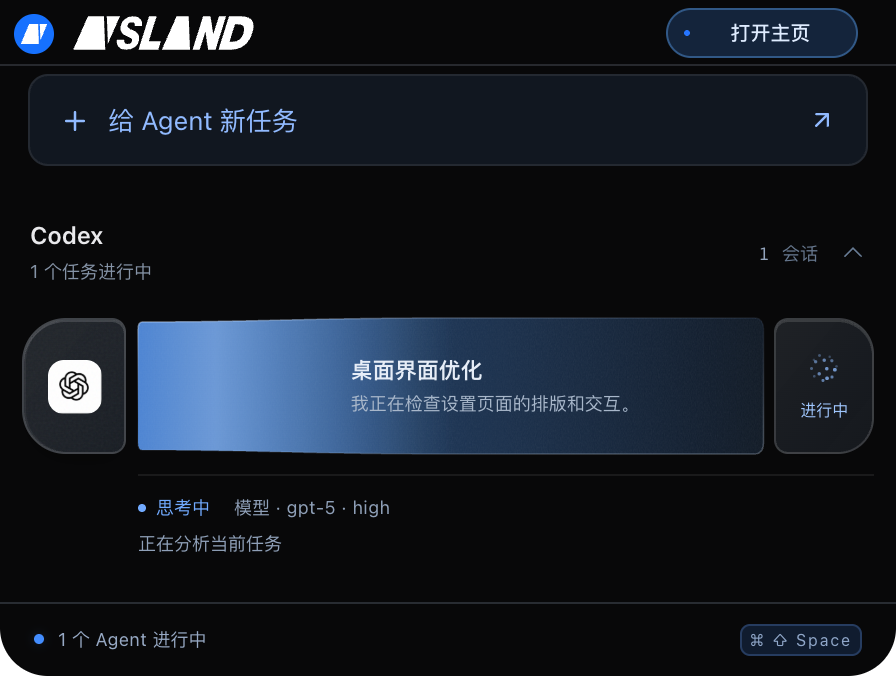
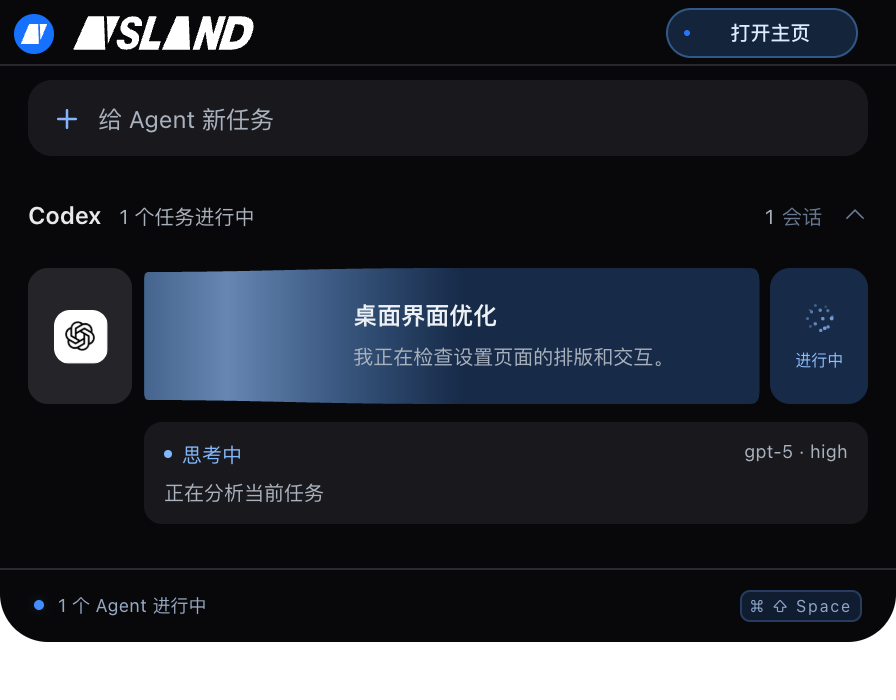
Publish refined island surfaces while preserving existing flow animation

diff --git a/public/docs/index.html b/public/docs/index.html
@@ -1,7 +1,7 @@
-<!doctype html><html lang="zh-CN"><head><meta charset="utf-8"><meta name="viewport" content="width=device-width,initial-scale=1"><title>使用文档 — AISLAND</title><meta name="description" content="AISLAND 的安装、快速体验、Node.js 与 Python 接入、审批安全和本地数据说明。"><meta name="theme-color" content="#ffffff"><link rel="canonical" href="https://calibg.github.io/agent-island/docs/"><link rel="icon" href="../assets/icon.svg?v=ai-parallel-4" type="image/svg+xml"><link rel="stylesheet" href="../marketing.css"><link rel="stylesheet" href="../docs.css"><script src="../site.js" defer></script></head><body class="landing">
-<a class="skip-link" href="#main">跳到文档内容</a><header class="header"><div class="container header-inner"><a class="brand" href="../"><img src="../assets/wordmark.svg?v=ai-parallel-4" width="150" height="28" alt="AISLAND"></a><nav class="nav" id="navigation" aria-label="主导航"><a href="../#product">产品体验</a><a href="../#connect">通用接入</a><a href="./" aria-current="page">使用文档</a></nav><a class="nav-download" href="../#download">下载体验 <span aria-hidden="true">↗</span></a><button class="menu-toggle" aria-expanded="false" aria-controls="navigation" aria-label="展开导航"><span></span><span></span></button></div></header>
+<!doctype html><html lang="zh-CN"><head><meta charset="utf-8"><meta name="viewport" content="width=device-width,initial-scale=1"><title>使用文档 — AISLAND</title><meta name="description" content="AISLAND 的安装、快速体验、Node.js 与 Python 接入、审批安全和本地数据说明。"><meta name="theme-color" content="#ffffff"><link rel="canonical" href="https://calibg.github.io/agent-island/docs/"><link rel="icon" href="../assets/icon.svg?v=ui-flat-24" type="image/svg+xml"><link rel="stylesheet" href="../marketing.css"><link rel="stylesheet" href="../docs.css"><script src="../site.js" defer></script></head><body class="landing">
+<a class="skip-link" href="#main">跳到文档内容</a><header class="header"><div class="container header-inner"><a class="brand" href="../"><img src="../assets/wordmark.svg?v=ui-flat-24" width="150" height="28" alt="AISLAND"></a><nav class="nav" id="navigation" aria-label="主导航"><a href="../#product">产品体验</a><a href="../#connect">通用接入</a><a href="./" aria-current="page">使用文档</a></nav><a class="nav-download" href="../#download">下载体验 <span aria-hidden="true">↗</span></a><button class="menu-toggle" aria-expanded="false" aria-controls="navigation" aria-label="展开导航"><span></span><span></span></button></div></header>
 <div class="container docs-layout"><aside class="docs-sidebar" aria-label="文档目录"><p class="eyebrow">GETTING STARTED</p><a href="#install">安装与打开</a><a href="#first-use">第一次体验</a><a href="#desktop-agents">桌面 Agent 与启动设置</a><a href="#quickstart">接入你的 Agent</a><a href="#approvals">审批与问答</a><a href="#capabilities">当前支持范围</a><a href="#privacy">数据与隐私</a><a href="#troubleshooting">常见问题</a><a href="./protocol.md">完整 HTTP 协议 ↗</a></aside>
-<main class="docs-content" id="main"><p class="eyebrow">AISLAND / DOCUMENTATION</p><h1>从这里，开始登岛。</h1><p class="docs-lead">安装应用，体验小岛，再把你自己的 Agent 接进来。<br>适用于 v0.3.23 预览版。</p>
+<main class="docs-content" id="main"><p class="eyebrow">AISLAND / DOCUMENTATION</p><h1>从这里，开始登岛。</h1><p class="docs-lead">安装应用，体验小岛，再把你自己的 Agent 接进来。<br>适用于 v0.3.24 预览版。</p>
 <section id="install"><h2>安装与打开</h2><p>应用本身不需要 Node.js 或 Python。Claude Code、Codex、WorkBuddy、Antigravity 的 Hooks 需要 Python 3.9+；对应 SDK 需要 Node.js 20+ 或 Python 3.9+。</p><h3>macOS · Apple Silicon</h3><ol><li>从<a href="../#download">下载页面</a>获取 DMG，打开后将 AISLAND 拖入 Applications（应用程序）。</li><li>从应用程序中启动 AISLAND。</li><li>当前提供 M 系列芯片版本，尚未提供 Intel 安装包。</li></ol><p>桌面界面跟随系统明暗模式。macOS 开关使用 AppKit NSSwitch；Windows 设置使用微软官方 Fluent UI React 组件，并保留系统窗口按钮。</p><h3>Windows · x64</h3><ol><li>下载 EXE 安装程序，按提示安装并打开。</li></ol><div class="doc-note"><p>当前是未签名的预览版，尚未完成 Apple Developer ID 公证或 Windows Authenticode 签名。首次打开可能出现系统来源提示，请先确认下载地址和<a href="../download-checksums.txt">文件校验信息</a>。Mac 已完成自动化验证，Windows 安装包已构建，尚待实机验证。</p></div><p>应用常驻菜单栏或系统托盘。关闭管理窗口不会退出应用；如需完全退出，请使用托盘菜单中的「退出」。</p></section>
 <section class="doc-section" id="first-use"><h2>接入 Claude Code</h2><ol><li>启动 AISLAND，打开「工具接入」，点击 Claude Code 的「安装接入」。这一步需要 Python 3.9+。</li><li>在项目终端运行 <code>claude</code>。已启动的会话可重启一次或用 <code>/hooks</code> 检查配置。</li><li>提交真实任务后，小岛显示运行状态；权限确认和问题回答会返回当前 Claude Code 会话。</li></ol><p>保留你已有的 Hooks、模型和权限配置。只有明确确认才允许操作；小岛不在线或请求超时，回到 Claude Code 原有交互。计划确认仍在终端处理。</p><p>快捷键：macOS 为 Cmd + Shift + Space，Windows 为 Ctrl + Shift + Space。</p></section>
 <section id="desktop-agents"><h2>Codex、Antigravity 与接入助手</h2><p>在应用「工具接入」中打开接入助手。先检查 Python 3.9+ 和 Codex，再安装接入配置。助手保留已有配置并备份，不会更改权限策略。</p><h3>Codex 桌面软件</h3><ol><li>点击「安装 Codex 接入」，等待写入完成。</li><li>点击「打开审核终端」，在 Codex 中输入 <code>/hooks</code>，审核并信任「AISLAND · Codex」条目。审核不会自动进行。</li><li>回到小岛点击「重新检查」。显示已启用并信任后，重启 Codex 桌面端并开启新任务。</li></ol><p>支持真实进度、工具调用、权限确认、结束与中断。问答和计划仍在 Codex 中完成。用户级 Hooks 也会被同一配置下的 CLI 加载；小岛跳转唤起桌面软件，不定位具体聊天。</p><h3>Antigravity</h3><p>在对应接入卡片点击安装，重启 Antigravity 并开启新任务。支持进度、工具调用与后台任务状态。权限和问答在 Antigravity 内处理。</p><h3>登录后自动运行</h3><p>「登录后自动启动小岛」与「启动时运行接入检查」是独立开关，默认关闭。前者运行本机服务；后者只读检查环境与 Hooks 状态，发现未完成步骤时显示助手，不自动批准 Hooks。</p><p>应用先放入应用程序目录或通过 Windows 安装程序安装。系统要求批准登录项时，请在系统设置中完成；未签名 macOS 预览包的登录启动可能受系统限制。界面显示系统实际状态，不能等同于已经实测重启。</p><p>「已配置」不代表已经连接。收到真实 Hook 后才显示事件回执。安装脚本与配置不上传网站。</p></section><section class="doc-section" id="quickstart"><h2>接入你的 Agent</h2><p>先启动 AISLAND，再把 SDK 文件复制到你自己的项目。SDK 会读取当前用户目录下的本机连接信息，向应用报告状态。无需第三方依赖，也不需要填写 AI 服务密钥。</p><div class="doc-downloads"><a class="button" href="../sdk/agent-island.mjs" download>下载 Node.js SDK ↓</a><a class="button" href="../sdk/agent_island.py" download>下载 Python SDK ↓</a><a class="button" href="../sdk/example.mjs" download>下载完整 Node.js 示例 ↓</a></div><h3>Node.js</h3><p>将以下代码保存为 <code>connect.mjs</code>，与 <code>agent-island.mjs</code> 放在同一个目录，然后运行 <code>node connect.mjs</code>。</p><pre><code>import { AgentIsland } from './agent-island.mjs';
@@ -33,10 +33,10 @@ if (result.decision === 'allow') {
 } else {
   await island.complete('操作未获批准。');
 }</code></pre><p>审批最多等待约 10 分钟。超时、断线、会话结束、应用退出或重启，都不会自动批准。接入方必须把错误与 <code>cancel</code> 视为未批准，不应在捕获异常后继续执行待确认操作。</p><p>Node.js SDK 还提供 <code>ask()</code>（单选、多选、自定义回答）、<code>plan()</code>（计划与反馈）和 <code>usage()</code>（真实上报的用量）。可下载完整示例体验双向交互。Python 可用 <code>send()</code> 发送协议定义的其他事件。</p></section>
-<section class="doc-section" id="capabilities"><h2>当前支持范围</h2><div class="table-scroll"><table><thead><tr><th>功能</th><th>v0.3.23 状态</th></tr></thead><tbody><tr><td>桌面小岛、悬停、快捷键、多显示器</td><td>已提供</td></tr><tr><td>Mac 原生刘海定位与 Force Touch 进入反馈</td><td>已提供；触感需支持的触控板</td></tr><tr><td>事件提示音、音量、安静时段、减少动态效果</td><td>已提供</td></tr><tr><td>会话搜索、筛选、活动记录、归档</td><td>已提供</td></tr><tr><td>审批、问答、计划审阅、用量上报</td><td>已提供</td></tr><tr><td>Node.js / Python / HTTP 通用接入</td><td>已提供</td></tr><tr><td>Claude Code Hooks</td><td>状态、权限确认与问答已提供；计划确认在终端</td></tr><tr><td>Codex / Antigravity</td><td>真实 Hooks 接入；具体能力与首次信任见上文</td></tr><tr><td>接入助手与启动检查</td><td>环境检查、官方信任状态、用户自行选择登录启动</td></tr><tr><td>厂商账户额度自动采集、SSH、手机推送、自动更新</td><td>未提供</td></tr></tbody></table></div><p>应用采用 Electron + React 与 macOS 原生面板模块。Mac 读取刘海安全区并从下沿展开；Windows 从屏幕顶部中央展开，外接屏无需物理刘海。AISLAND 为独立实现，不是 Vibe Island 的官方版本。</p></section>
+<section class="doc-section" id="capabilities"><h2>当前支持范围</h2><div class="table-scroll"><table><thead><tr><th>功能</th><th>v0.3.24 状态</th></tr></thead><tbody><tr><td>桌面小岛、悬停、快捷键、多显示器</td><td>已提供</td></tr><tr><td>Mac 原生刘海定位与 Force Touch 进入反馈</td><td>已提供；触感需支持的触控板</td></tr><tr><td>事件提示音、音量、安静时段、减少动态效果</td><td>已提供</td></tr><tr><td>会话搜索、筛选、活动记录、归档</td><td>已提供</td></tr><tr><td>审批、问答、计划审阅、用量上报</td><td>已提供</td></tr><tr><td>Node.js / Python / HTTP 通用接入</td><td>已提供</td></tr><tr><td>Claude Code Hooks</td><td>状态、权限确认与问答已提供；计划确认在终端</td></tr><tr><td>Codex / Antigravity</td><td>真实 Hooks 接入；具体能力与首次信任见上文</td></tr><tr><td>接入助手与启动检查</td><td>环境检查、官方信任状态、用户自行选择登录启动</td></tr><tr><td>厂商账户额度自动采集、SSH、手机推送、自动更新</td><td>未提供</td></tr></tbody></table></div><p>应用采用 Electron + React 与 macOS 原生面板模块。Mac 读取刘海安全区并从下沿展开；Windows 从屏幕顶部中央展开，外接屏无需物理刘海。AISLAND 为独立实现，不是 Vibe Island 的官方版本。</p></section>
 <section class="doc-section" id="privacy"><h2>数据与隐私</h2><p>桌面应用的桥接服务只监听 <code>127.0.0.1</code>，不向局域网开放。请求需通过本机令牌验证，并拒绝携带浏览器 Origin 的请求。不要公开或分享 <code>connection.json</code>。</p><p>会话文本与操作预览保存在 <code>~/.agent-island/state.json</code>。记录默认保留 7 天，下次启动时清理过期记录。在偏好设置中可打开数据目录。</p><p>AISLAND 默认只在本机运行，不设置遥测。主动启用手机连接后，进度摘要和手机指令在设备上用 AES-256-GCM 加密，再经过你配置的 Cloudflare Workers / D1 同步；服务端不持有解密密钥。电脑超过 24 小时不再同步时，服务会清理旧连接。手机配对信息保存在设备本地，配对链接相当于访问凭据，不要分享。你所接入的 AI 工具可能有自己的网络行为与数据策略，请以对应工具的设置为准。</p><p>本官网不嵌入分析追踪器，也不设置账户系统。网页由 GitHub Pages 托管，安装包通过 GitHub Releases 分发；访问与下载产生的基础服务日志由 GitHub 按其<a href="https://docs.github.com/en/site-policy/privacy-policies/github-general-privacy-statement">隐私声明</a>处理。</p></section>
 <section class="doc-section" id="mobile"><h2>手机同步与控制</h2><p>自部署用户可下载<a href="https://github.com/CaliBG/agent-island/releases/download/v0.3.0/Agent-Island-Sync-0.1.0.zip">免费同步服务部署包</a>，按其中 README 设置 Workers 和 D1。</p><ol><li>在电脑打开「设置 → 手机与远程」，配置你自己的 Cloudflare Workers 免费同步服务，然后生成配对码。已配置服务的电脑可直接生成二维码。</li><li>手机打开<a href="../mobile/">移动端</a>，扫码或粘贴配对链接。二维码仅用于配对，有效期 10 分钟。</li><li>iPhone 可通过 Safari「分享 → 添加到主屏幕」免费使用。Android 可从官网下载 APK 安装；原生预览版尚待真机验证。</li><li>按需在电脑分别允许「发送 Agent 任务」「调整保持唤醒」「打开远程控制软件」。三项默认关闭。</li></ol><p>前台约 5 秒刷新，手机进入后台后暂停轮询。电脑需运行 AISLAND 并联网；离线时只能查看最后同步的数据。发送后的“已排队”不等于执行成功，请以电脑返回的回执为准。保持唤醒不会解除手动锁屏，远程软件仍使用自身的登录和验证。</p><p>同步后端使用 Workers / D1 免费额度，超额时可能暂停，不会自动升级付费。AI 工具本身的订阅、额度以及第三方远程软件的收费由各厂商决定。iOS 原生工程已编译验证，尚未提供 App Store / TestFlight 安装。</p></section>
 <section class="doc-section" id="task-input"><h2>从小岛发送任务</h2><p>点击「给 Agent 新任务」，选择 Agent 和原对话；鼠标靠近分支右侧的状态按钮会自动弹出输入气泡；点击输入框后取得键盘焦点，已结束的会话也可正常输入。Codex、Claude Code 支持原会话续发，保留上下文；运行中可以排队发送，任务完成后自动续发，每个会话最多一条，可撤回编辑。应用重启或当前任务异常后，队列会暂停，需确认后重新提交。</p><p>Codex 使用官方 app-server 恢复同一个会话，桌面客户端可能需要重新打开对话才能显示新内容；Claude Code 使用官方 Agent SDK。两者沿用本机已有登录，不要求另外填写 API Key。需要审批时，在小岛逐次确认。</p></section>
 <section class="doc-section" id="workbuddy"><h2>接入 WorkBuddy</h2><ol><li>打开「设置 → Agent 接入 → WorkBuddy → 接入」。</li><li>在 WorkBuddy 审核新增 Hooks，再开启新会话；旧会话可能需要重启后加载配置。</li><li>开始真实任务后，设置页会显示「已收到事件」和时间；「已配置」只代表配置已写入。</li></ol><p>当前同步任务、工具调用、结束状态。v0.3.10 增加「填入原对话」：核对会话后通过系统辅助功能填入输入框，已有草稿不会覆盖，发送仍需在 WorkBuddy 确认。Mac 首次使用需允许辅助功能；适配 WorkBuddy 5.11.2，Mac 已由用户验证文字进入正确原对话框；Windows 实机仍待验收。Antigravity 和其他通用接入尚不支持可靠续发，输入框会明确提示。审批与问答仍在 WorkBuddy 完成。安装器会备份配置并保留其他 Hooks 和权限规则。</p></section><section class="doc-section" id="troubleshooting"><h2>常见问题</h2><h3>示例提示找不到 connection.json</h3><p>先打开 AISLAND，确认「工具接入」显示本地连接正常。SDK 和应用需要在同一台电脑、同一用户下运行。自定义数据路径时，可使用 <code>AGENT_ISLAND_HOME</code> 指向相应目录。</p><h3>小岛没有显示在预期位置</h3><p>使用快捷键唤起，或从托盘菜单打开管理窗口，检查偏好设置中的显示器与浮动方式。显示器断开后，应用会回退到可用屏幕。</p><h3>MacBook 没有感觉到震动</h3><p>在设置 → 外观与交互中开启「触控板触感」，将手指放在支持 Force Touch 的触控板上，点击「试一下」。每次进入只发送一次触感，默认清脆模式，可切换标准或轻触。系统公开接口不支持改变单次震动振幅。区域内移动不重复，移出再进入重新触发。声音开关与触感开关相互独立，普通鼠标本身不会震动。</p><h3>无法跳回终端</h3><p>macOS 首次定位 Terminal / iTerm2 会话可能需要系统自动化权限。Windows 在管理员窗口或某些全屏应用下可能拒绝切换焦点。若无法定位会话，可先从工具界面打开对应项目目录。</p><h3>发现其他问题</h3><p>请通过 <a href="https://github.com/CaliBG/agent-island/issues">GitHub Issues</a> 描述操作系统、应用版本与复现步骤。提交截图或日志前，请移除连接令牌、个人路径和项目敏感内容。</p></section>
-<div class="docs-footer">AISLAND v0.3.23 · <a href="../">返回官网</a> · <a href="https://github.com/CaliBG/agent-island/releases/tag/v0.3.23">查看发布记录</a></div></main></div>
+<div class="docs-footer">AISLAND v0.3.24 · <a href="../">返回官网</a> · <a href="https://github.com/CaliBG/agent-island/releases/tag/v0.3.24">查看发布记录</a></div></main></div>
 </body></html>

diff --git a/public/index.html b/public/index.html
@@ -5,24 +5,24 @@
 <title>AISLAND — 少一点切换，多一点专注。</title>
 <meta name="description" content="把 Claude Code、Codex、WorkBuddy 和 Antigravity 的工作进度带到屏幕顶部。真实事件、本地运行、按需回应。下载适用于 macOS 和 Windows 的 AISLAND。">
 <meta name="theme-color" content="#ffffff"><link rel="canonical" href="https://calibg.github.io/agent-island/">
-<meta property="og:type" content="website"><meta property="og:title" content="AISLAND — 少一点切换，多一点专注。"><meta property="og:description" content="Agent 继续工作，你继续专注。macOS + Windows 桌面灵动岛。"><meta property="og:url" content="https://calibg.github.io/agent-island/"><meta property="og:image" content="https://calibg.github.io/agent-island/assets/social.png?v=ai-parallel-4"><meta name="twitter:card" content="summary_large_image">
-<link rel="icon" type="image/svg+xml" href="./assets/icon.svg?v=ai-parallel-4"><link rel="preload" as="font" href="./assets/departure-mono.woff2" type="font/woff2" crossorigin>
+<meta property="og:type" content="website"><meta property="og:title" content="AISLAND — 少一点切换，多一点专注。"><meta property="og:description" content="Agent 继续工作，你继续专注。macOS + Windows 桌面灵动岛。"><meta property="og:url" content="https://calibg.github.io/agent-island/"><meta property="og:image" content="https://calibg.github.io/agent-island/assets/social.png?v=ui-flat-24"><meta name="twitter:card" content="summary_large_image">
+<link rel="icon" type="image/svg+xml" href="./assets/icon.svg?v=ui-flat-24"><link rel="preload" as="font" href="./assets/departure-mono.woff2" type="font/woff2" crossorigin>
 <link rel="stylesheet" href="./marketing.css"><link rel="stylesheet" href="./ui/hover-buttons.css"><script src="./site.js" defer></script><script type="module" src="./ui/hover-buttons.js"></script>
 </head>
 <body>
 <a class="skip-link" href="#main">跳到主要内容</a>
-<header class="header"><div class="container header-inner"><a href="./" class="brand" aria-label="AISLAND 首页"><img class="aisland-wordmark" src="./assets/wordmark.svg?v=ai-parallel-4" width="150" height="28" alt="AISLAND"></a><nav class="nav" aria-label="主导航"><a href="#product">产品</a><a href="#connect">接入</a><a href="./mobile/">手机端</a><a href="./docs/">文档 ↗</a></nav><a class="nav-download" href="#download">免费下载 <span aria-hidden="true">↗</span></a></div></header>
+<header class="header"><div class="container header-inner"><a href="./" class="brand" aria-label="AISLAND 首页"><img class="aisland-wordmark" src="./assets/wordmark.svg?v=ui-flat-24" width="150" height="28" alt="AISLAND"></a><nav class="nav" aria-label="主导航"><a href="#product">产品</a><a href="#connect">接入</a><a href="./mobile/">手机端</a><a href="./docs/">文档 ↗</a></nav><a class="nav-download" href="#download">免费下载 <span aria-hidden="true">↗</span></a></div></header>
 <main id="main">
 <section class="hero container" aria-labelledby="hero-title">
-<div class="hero-copy"><a class="release-link" href="#download"><span class="status-dot"></span>v0.3.23 现已推出 <span>↗</span></a><h1 id="hero-title">专注，<br><span>不必切换。</span></h1><p class="hero-description">让 Agent 继续工作。<br>需要你的时刻，屏幕顶部见。</p><div class="hero-actions"><span data-hover-button data-variant="light"><a class="button-fallback" href="#download">下载 AISLAND</a></span><a class="quiet-link" href="#product">看看小岛 <span aria-hidden="true">↓</span></a></div><p class="hero-note">macOS + Windows <span>·</span> 无需注册</p></div>
-<div class="hero-visual"><div class="laptop-mockup" role="group" aria-label="MacBook 比例样机，嵌入真实软件截图"><div class="laptop-screen"><div class="screen-toolbar" aria-hidden="true"><span>AISLAND</span><span>本机连接</span></div><div class="device-notch" aria-hidden="true"></div><div class="screen-content"><img src="./assets/sessions.png?v=ai-parallel-4" alt="AISLAND 真实会话管理界面" width="2200" height="1560" fetchpriority="high"></div></div><div class="laptop-base" aria-hidden="true"><i></i></div><div class="laptop-foot" aria-hidden="true"></div></div><p class="visual-caption">你的工具，照常工作。<span>你的注意力，自由。</span></p></div>
+<div class="hero-copy"><a class="release-link" href="#download"><span class="status-dot"></span>v0.3.24 现已推出 <span>↗</span></a><h1 id="hero-title">专注，<br><span>不必切换。</span></h1><p class="hero-description">让 Agent 继续工作。<br>需要你的时刻，屏幕顶部见。</p><div class="hero-actions"><span data-hover-button data-variant="light"><a class="button-fallback" href="#download">下载 AISLAND</a></span><a class="quiet-link" href="#product">看看小岛 <span aria-hidden="true">↓</span></a></div><p class="hero-note">macOS + Windows <span>·</span> 无需注册</p></div>
+<div class="hero-visual"><div class="laptop-mockup" role="group" aria-label="MacBook 比例样机，嵌入真实软件截图"><div class="laptop-screen"><div class="screen-toolbar" aria-hidden="true"><span>AISLAND</span><span>本机连接</span></div><div class="device-notch" aria-hidden="true"></div><div class="screen-content"><img src="./assets/sessions.png?v=ui-flat-24" alt="AISLAND 真实会话管理界面" width="2200" height="1560" fetchpriority="high"></div></div><div class="laptop-base" aria-hidden="true"><i></i></div><div class="laptop-foot" aria-hidden="true"></div></div><p class="visual-caption">你的工具，照常工作。<span>你的注意力，自由。</span></p></div>
 </section>
 <div class="compatibility container"><span>与你的 Agent 一起</span><div><span class="agent-wordmark claude-wordmark">✳ <b>Claude Code</b></span><span class="agent-wordmark">⌘ <b>Codex</b></span><span class="agent-wordmark">⌁ <b>Antigravity</b></span></div><a href="#connect">↗</a></div>
-<section id="product" class="product-section container" aria-labelledby="product-title"><div class="section-heading"><div><p class="eyebrow">01 / 小岛，很轻。</p><h2 id="product-title">抬头，<em>即见。</em></h2></div><p class="section-intro">进度、审批、回应。<br>出现得刚刚好。</p></div><div class="product-editorial"><figure class="island-figure"><div class="screen-edge" aria-hidden="true"><span></span><i></i><span></span></div><img src="./assets/island-live.png?v=ai-parallel-4" alt="屏幕顶部展开的小岛，显示示例 Codex 会话" width="896" height="700" loading="lazy"><figcaption>软件界面截图</figcaption></figure><div class="product-benefits"><article><span>01</span><h3>一眼看清进度</h3></article><article><span>02</span><h3>一次回应请求</h3></article><article><span>03</span><h3>一瞬回到专注</h3></article><a class="quiet-link" href="#download">把小岛放上桌面 ↗</a></div></div></section>
+<section id="product" class="product-section container" aria-labelledby="product-title"><div class="section-heading"><div><p class="eyebrow">01 / 小岛，很轻。</p><h2 id="product-title">抬头，<em>即见。</em></h2></div><p class="section-intro">进度、审批、回应。<br>出现得刚刚好。</p></div><div class="product-editorial"><figure class="island-figure"><div class="screen-edge" aria-hidden="true"><span></span><i></i><span></span></div><img src="./assets/island-live.png?v=ui-flat-24" alt="屏幕顶部展开的小岛，显示示例 Codex 会话" width="896" height="700" loading="lazy"><figcaption>软件界面截图</figcaption></figure><div class="product-benefits"><article><span>01</span><h3>一眼看清进度</h3></article><article><span>02</span><h3>一次回应请求</h3></article><article><span>03</span><h3>一瞬回到专注</h3></article><a class="quiet-link" href="#download">把小岛放上桌面 ↗</a></div></div></section>
 <section class="focus-story" aria-labelledby="focus-title"><div class="container story-heading"><p class="eyebrow" id="focus-title">让注意力，留在此刻。</p><button id="crawl-toggle" type="button" aria-pressed="false">暂停动效 <span aria-hidden="true">Ⅱ</span></button></div><div class="crawl-viewport" aria-hidden="true"><div class="crawl-plane"><div class="crawl-copy"><p>少一点切换。</p><p>多一点专注。</p><p>让工作继续。</p><p>让进度来找你。</p><p>少一点切换。</p><p>多一点专注。</p></div></div></div><p class="sr-only">让 Agent 继续工作，把注意力留给手头的事。任务需要你的决定时，小岛会出现。</p><div class="story-bottom container"><span>ONE QUIET ISLAND.</span><a class="quiet-link" href="#download">开始专注 ↗</a></div></section>
-<section class="workspace-section container" aria-labelledby="workspace-title"><div class="section-heading"><div><p class="eyebrow">02 / 看见全貌。</p><h2 id="workspace-title">简单，也<em>完整。</em></h2></div><div class="product-tabs" role="tablist" aria-label="应用界面展示"><button role="tab" aria-selected="true" id="tab-sessions" aria-controls="product-panel" data-view="sessions">会话管理</button><button role="tab" aria-selected="false" tabindex="-1" id="tab-integrations" aria-controls="product-panel" data-view="integrations">工具接入</button><button role="tab" aria-selected="false" tabindex="-1" id="tab-settings" aria-controls="product-panel" data-view="settings">个人偏好</button></div></div><figure class="workspace-window" id="product-panel" role="tabpanel" aria-labelledby="tab-sessions" tabindex="0"><div class="window-rim"><span class="window-dots" aria-hidden="true"><i></i><i></i><i></i></span><span>AISLAND</span><span>界面截图 · 示例会话</span></div><img id="product-image" src="./assets/sessions.png?v=ai-parallel-4" width="2200" height="1560" loading="lazy" alt="AISLAND 真实会话管理界面"></figure><div class="product-caption"><p id="product-description">每个 Agent 一个位置，展开查看会话分支。</p><a href="#download">下载体验 ↗</a></div></section>
+<section class="workspace-section container" aria-labelledby="workspace-title"><div class="section-heading"><div><p class="eyebrow">02 / 看见全貌。</p><h2 id="workspace-title">简单，也<em>完整。</em></h2></div><div class="product-tabs" role="tablist" aria-label="应用界面展示"><button role="tab" aria-selected="true" id="tab-sessions" aria-controls="product-panel" data-view="sessions">会话管理</button><button role="tab" aria-selected="false" tabindex="-1" id="tab-integrations" aria-controls="product-panel" data-view="integrations">工具接入</button><button role="tab" aria-selected="false" tabindex="-1" id="tab-settings" aria-controls="product-panel" data-view="settings">个人偏好</button></div></div><figure class="workspace-window" id="product-panel" role="tabpanel" aria-labelledby="tab-sessions" tabindex="0"><div class="window-rim"><span class="window-dots" aria-hidden="true"><i></i><i></i><i></i></span><span>AISLAND</span><span>界面截图 · 示例会话</span></div><img id="product-image" src="./assets/sessions.png?v=ui-flat-24" width="2200" height="1560" loading="lazy" alt="AISLAND 真实会话管理界面"></figure><div class="product-caption"><p id="product-description">每个 Agent 一个位置，展开查看会话分支。</p><a href="#download">下载体验 ↗</a></div></section>
 <section id="connect" class="connection-section container" aria-labelledby="connect-title"><div class="section-heading"><div><p class="eyebrow">03 / 连接一次。</p><h2 id="connect-title">此后，<em>照常工作。</em></h2></div><a href="./docs/#desktop-agents" class="quiet-link">跟随接入助手，开始连接 ↗</a></div><div class="integration-table"><article><div class="integration-name"><span>✳</span><h3>Claude Code</h3></div><p>进度 · 审批 · 问答</p><a href="./docs/#first-use" aria-label="Claude Code 接入说明">↗</a></article><article><div class="integration-name"><span>⌘</span><h3>Codex</h3></div><p>进度 · 审批 · 首次信任</p><a href="./docs/#desktop-agents" aria-label="Codex 接入说明">↗</a></article><article><div class="integration-name"><span>⌁</span><h3>Antigravity</h3></div><p>进度 · 工具 · 后台状态</p><a href="./docs/#desktop-agents" aria-label="Antigravity 接入说明">↗</a></article></div><div class="connection-note"><span>是否随登录启动，由你选择。</span><a href="./docs/#quickstart">也支持本地 SDK ↗</a></div></section>
-<section id="download" class="download-section" aria-labelledby="download-title"><div class="container"><div class="download-heading"><p class="eyebrow">你的下一次专注，从这里开始。</p><h2 id="download-title">给桌面，<em>一座小岛。</em></h2><p>本地运行。无需注册。免费预览。</p></div><div class="download-grid"><article class="download-card"><div class="download-title"><span aria-hidden="true">⌘</span><div><h3>macOS</h3><p>Apple Silicon · M 系列</p></div><span class="version-label">0.3.23</span></div><span data-hover-button data-full-width="true" data-variant="light"><a class="button-fallback" href="https://github.com/CaliBG/agent-island/releases/download/v0.3.23/Agent-Island-0.3.23-mac-arm64.dmg">下载 Mac 版</a></span><div class="download-meta"><span>DMG · 126.6 MiB</span><a href="./docs/#install">安装说明 ↗</a></div></article><article class="download-card"><div class="download-title"><span aria-hidden="true">⊞</span><div><h3>Windows</h3><p>x64 · 安装版</p></div><span class="version-label">0.3.23</span></div><span data-hover-button data-full-width="true"><a class="button-fallback" href="https://github.com/CaliBG/agent-island/releases/download/v0.3.23/Agent-Island-0.3.23-win-x64.exe">下载 Windows 版</a></span><div class="download-meta"><span>EXE · 124.2 MiB</span><a href="./docs/#install">安装说明 ↗</a></div></article></div><div class="mobile-download"><div><strong>把进度带在身边。</strong><p>iPhone 添加到主屏幕 · Android 安装 APK</p></div><a href="./mobile/">打开手机端 ↗</a><a href="https://github.com/CaliBG/agent-island/releases/download/v0.3.23/AISLAND-Mobile-0.1.4-android.apk">下载 Android ↗</a></div><div class="release-note"><p>未签名预览版 · Hooks 需要 Python 3.9+ · Windows 实机待验证</p><div><a href="https://github.com/CaliBG/agent-island/releases/tag/v0.3.23">版本说明 ↗</a><a href="./download-checksums.txt">SHA-256 校验 ↗</a></div></div></div></section>
+<section id="download" class="download-section" aria-labelledby="download-title"><div class="container"><div class="download-heading"><p class="eyebrow">你的下一次专注，从这里开始。</p><h2 id="download-title">给桌面，<em>一座小岛。</em></h2><p>本地运行。无需注册。免费预览。</p></div><div class="download-grid"><article class="download-card"><div class="download-title"><span aria-hidden="true">⌘</span><div><h3>macOS</h3><p>Apple Silicon · M 系列</p></div><span class="version-label">0.3.24</span></div><span data-hover-button data-full-width="true" data-variant="light"><a class="button-fallback" href="https://github.com/CaliBG/agent-island/releases/download/v0.3.24/Agent-Island-0.3.24-mac-arm64.dmg">下载 Mac 版</a></span><div class="download-meta"><span>DMG · 126.6 MiB</span><a href="./docs/#install">安装说明 ↗</a></div></article><article class="download-card"><div class="download-title"><span aria-hidden="true">⊞</span><div><h3>Windows</h3><p>x64 · 安装版</p></div><span class="version-label">0.3.24</span></div><span data-hover-button data-full-width="true"><a class="button-fallback" href="https://github.com/CaliBG/agent-island/releases/download/v0.3.24/Agent-Island-0.3.24-win-x64.exe">下载 Windows 版</a></span><div class="download-meta"><span>EXE · 124.2 MiB</span><a href="./docs/#install">安装说明 ↗</a></div></article></div><div class="mobile-download"><div><strong>把进度带在身边。</strong><p>iPhone 添加到主屏幕 · Android 安装 APK</p></div><a href="./mobile/">打开手机端 ↗</a><a href="https://github.com/CaliBG/agent-island/releases/download/v0.3.23/AISLAND-Mobile-0.1.4-android.apk">下载 Android ↗</a></div><div class="release-note"><p>未签名预览版 · Hooks 需要 Python 3.9+ · Windows 实机待验证</p><div><a href="https://github.com/CaliBG/agent-island/releases/tag/v0.3.24">版本说明 ↗</a><a href="./download-checksums.txt">SHA-256 校验 ↗</a></div></div></div></section>
 
-</main><footer class="footer container"><a class="brand" href="./"><img class="aisland-wordmark" src="./assets/wordmark.svg?v=ai-parallel-4" width="150" height="28" alt="AISLAND"></a><p>© 2026</p><div><a href="./docs/">文档</a><a href="./docs/#privacy">隐私</a><a href="https://github.com/CaliBG/agent-island">GitHub ↗</a></div><a href="#main" aria-label="回到顶部">↑</a></footer><div class="toast" role="status" aria-live="polite"></div>
+</main><footer class="footer container"><a class="brand" href="./"><img class="aisland-wordmark" src="./assets/wordmark.svg?v=ui-flat-24" width="150" height="28" alt="AISLAND"></a><p>© 2026</p><div><a href="./docs/">文档</a><a href="./docs/#privacy">隐私</a><a href="https://github.com/CaliBG/agent-island">GitHub ↗</a></div><a href="#main" aria-label="回到顶部">↑</a></footer><div class="toast" role="status" aria-live="polite"></div>
 </body></html>

diff --git a/public/site.js b/public/site.js
@@ -23,7 +23,7 @@ const views = {
 function selectView(name) {
   const view = views[name];
   $$('.product-tabs [role=tab]').forEach(tab => {tab.setAttribute('aria-selected', String(tab.dataset.view === name));tab.tabIndex = tab.dataset.view === name ? 0 : -1;});
-  $('#product-image').src = './assets/' + view.image + '?v=ai-parallel-4';
+  $('#product-image').src = './assets/' + view.image + '?v=ui-flat-24';
   $('#product-image').alt = view.alt;
   $('#product-description').textContent = view.text;
   $('#product-panel').setAttribute('aria-labelledby','tab-'+name);
